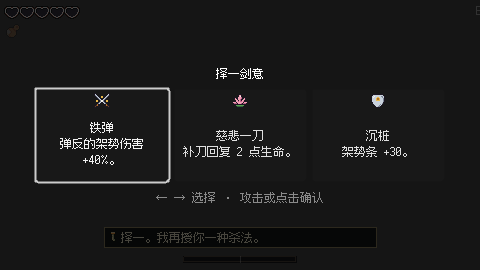
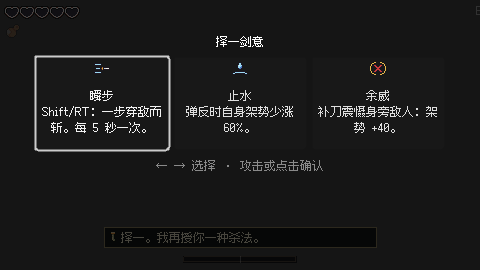
Two more upgrades: Dread (余威) and Still Water (止水)
Dread: a finisher adds 40 posture to every other enemy within 80 px (a full bar breaks it).
Still Water: your deflects cost you 60% less posture. Code-drawn icons, en/nl/zh_CN text,
numbers in run.tres, scenario upgrade_extras. The upgrade cards are centred above the
sword's text box; run_upgrade screens now show seed 175 (Flash Step, Still Water, Dread).

Claude-Session: https://claude.ai/code/session_01AfcAfqa33AD2jS3FNB8M79

diff --git a/game/scripts/scenarios/UpgradeExtrasScenario.cs b/game/scripts/scenarios/UpgradeExtrasScenario.cs
@@ -1,0 +1,77 @@
+using System.Linq;
+using Godot;
+using SwordInTheForest.Actors;
+using SwordInTheForest.Core;
+using SwordInTheForest.Run;
+
+namespace SwordInTheForest.Scenarios;
+
+/// <summary>
+/// 余威 Dread: a finisher shakes the posture of the other enemies near the player.
+/// 止水 Still Water: deflects cost the player less posture (the multiplier is applied).
+/// </summary>
+public partial class UpgradeExtrasScenario : Scenario
+{
+    private readonly BotControls _controls = new();
+    private RunScene _run = null!;
+    private Enemy _kneeler = null!;
+    private Enemy _other = null!;
+    private double _otherPosture0;
+    private int _stage;
+    private int _waitFrom;
+
+    protected override bool FailOnTimeout => true;
+
+    protected override void Step(int frame)
+    {
+        if (frame == 0)
+        {
+            // Bamboo room 2 has two bandits; no begging so the broken one kneels.
+            _run = new RunScene { Seed = 7, StartStep = 2, PlayMusic = false, ChangeScenes = false, Controls = _controls, Invulnerable = true, SurrenderOverride = 0f };
+            AddChild(_run);
+            return;
+        }
+        if (frame < 10) return;
+        var p = _run.Player;
+        switch (_stage)
+        {
+            case 0:
+                _run.Apply(Upgrade.StillWater);
+                Check(Mathf.IsEqualApprox(p.Mods.DeflectSelfPostureFactor, Tunables.Run.StillWaterFactor), "Still Water did not lower the deflect's posture cost");
+                _run.Apply(Upgrade.Dread);
+                Check(Mathf.IsEqualApprox(p.Mods.DreadPosture, Tunables.Run.DreadPosture), "Dread was not applied");
+                var alive = _run.Room!.Spawned.Where(e => IsInstanceValid(e) && !e.IsGone).ToList();
+                if (alive.Count < 2)
+                {
+                    Fail($"need two enemies, room has {alive.Count}");
+                    return;
+                }
+                _kneeler = alive[0];
+                _other = alive[1];
+                // Gather them by the player, break one, cut it down.
+                var toward = (p.GlobalPosition - _kneeler.GlobalPosition).Normalized();
+                p.GlobalPosition = _kneeler.GlobalPosition + toward * 14;
+                _other.GlobalPosition = _kneeler.GlobalPosition + toward.Orthogonal() * 24;
+                _kneeler.Shake(1000);
+                Check(_kneeler.IsKneeling, $"the shaken enemy is {_kneeler.Current}, not kneeling");
+                _otherPosture0 = _other.Posture.Value;
+                _controls.AimInput = -toward;
+                _controls.Press(PlayerAction.Attack, GameClock.Instance.NowMs);
+                _stage = 1;
+                _waitFrom = frame;
+                return;
+            case 1:
+                if (!_kneeler.IsGone)
+                {
+                    if (frame - _waitFrom > 60) Fail("the finisher did not land");
+                    return;
+                }
+                Check(p.DreadShaken == 1, $"Dread shook {p.DreadShaken} enemies, not 1");
+                Check(_other.IsKneeling || _other.Posture.Value >= _otherPosture0 + Tunables.Run.DreadPosture - 5,
+                    $"the other enemy's posture went {_otherPosture0:0} -> {_other.Posture.Value:0}");
+                GD.Print($"  frame {frame}: finisher shook the other bandit, posture {_otherPosture0:0} -> {_other.Posture.Value:0}");
+                Pass();
+                return;
+        }
+    }
+}

diff --git a/game/scripts/Actors/Player.cs b/game/scripts/Actors/Player.cs
@@ -408,17 +408,32 @@ public partial class Player : CharacterBody2D, IThreatTarget
             if (result == Enemy.HitResult.Ignored) continue;
             any = true;
             SparkFx.Hit(e.BodyGlobal);
-            if (result == Enemy.HitResult.Finisher)
-            {
-                Finishers++;
-                Heal(Mods.FinisherHeal);
-                FinisherLanded?.Invoke(this, e);
-            }
+            if (result == Enemy.HitResult.Finisher) LandFinisher(e);
         }
         if (!any) return;
         Clock.HitStop(Tunables.Feel.HitStopHitMs);
         ShakeCamera.Shake(Tunables.Feel.ShakeHit);
     }
+
+    /// <summary>A finisher landed on <paramref name="e"/>: heal (慈悲一刀) and shake the others (余威).</summary>
+    private void LandFinisher(Enemy e)
+    {
+        Finishers++;
+        Heal(Mods.FinisherHeal);
+        FinisherLanded?.Invoke(this, e);
+        if (Mods.DreadPosture <= 0) return;
+        var shaken = 0;
+        foreach (var other in Enemy.All(this))
+        {
+            if (other == e || other.BodyGlobal.DistanceTo(BodyGlobal) > Tunables.Run.DreadRadiusPx + Enemy.Radius) continue;
+            if (other.Shake(Mods.DreadPosture)) shaken++;
+        }
+        DreadShaken += shaken;
+        if (shaken > 0) SheetFx.Spawn("smoke_circular", 8, 30, GlobalPosition + new Vector2(0, -2), z: -1).Scale = new Vector2(2.2f, 2.2f);
+    }
+
+    /// <summary>Enemies shaken by 余威 so far (tests).</summary>
+    public int DreadShaken { get; private set; }
 
     private Vector2 UpdateFree(double now)
     {
@@ -587,9 +602,7 @@ public partial class Player : CharacterBody2D, IThreatTarget
             if (result == Enemy.HitResult.Finisher)
             {
                 finisher = true;
-                Finishers++;
-                Heal(Mods.FinisherHeal);
-                FinisherLanded?.Invoke(this, e);
+                LandFinisher(e);
             }
             SparkFx.Hit(origin + to * 0.7f);
         }
@@ -673,7 +686,7 @@ public partial class Player : CharacterBody2D, IThreatTarget
                 Clock.HitStop(feel.HitStopDeflectMs);
                 ShakeCamera.Shake(feel.ShakeDeflect);
                 _knockback = dir * feel.KnockbackDeflect * 0.35f;
-                if (AddPosture(data.PostureDamage * T.DeflectPostureFactor)) BreakPosture();
+                if (AddPosture(data.PostureDamage * T.DeflectPostureFactor * Mods.DeflectSelfPostureFactor)) BreakPosture();
                 break;
             case Outcome.Blocked:
                 Blocks++;

diff --git a/game/scripts/Ui/UpgradeScreen.cs b/game/scripts/Ui/UpgradeScreen.cs
@@ -16,6 +16,9 @@ public partial class UpgradeScreen : CanvasLayer
     private readonly List<Button> _buttons = new();
     private bool _done;
 
+    /// <summary>Height kept free at the bottom for the sword's lines (layout, not tuning).</summary>
+    private const float VoiceBoxClearancePx = 64;
+
     public UpgradeScreen(IReadOnlyList<Upgrade> choices) => _choices = choices;
     public UpgradeScreen() => _choices = Array.Empty<Upgrade>();
 
@@ -31,6 +34,8 @@ public partial class UpgradeScreen : CanvasLayer
         Upgrade.DeepGourd => "deep_gourd",
         Upgrade.IronDeflect => "iron_deflect",
         Upgrade.FlashStep => "flash_step",
+        Upgrade.Dread => "dread",
+        Upgrade.StillWater => "still_water",
         _ => "merciful_cut",
     };
 
@@ -46,7 +51,9 @@ public partial class UpgradeScreen : CanvasLayer
             .Replace("{damage}", r.KeenEdgeDamage.ToString())
             .Replace("{sips}", r.DeepGourdSips.ToString())
             .Replace("{seconds}", (r.FlashStepCooldownMs / 1000f).ToString("0.#", System.Globalization.CultureInfo.InvariantCulture))
-            .Replace("{flash_damage}", r.FlashStepDamage.ToString());
+            .Replace("{flash_damage}", r.FlashStepDamage.ToString())
+            .Replace("{dread}", Mathf.RoundToInt(r.DreadPosture).ToString())
+            .Replace("{calm}", Mathf.RoundToInt((1f - r.StillWaterFactor) * 100f).ToString());
     }
 
     public override void _Ready()
@@ -58,6 +65,8 @@ public partial class UpgradeScreen : CanvasLayer
         AddChild(dim);
         var center = new CenterContainer();
         center.SetAnchorsPreset(Control.LayoutPreset.FullRect);
+        // Centre in the space above the sword's text box, so tall cards never run into it.
+        center.OffsetBottom = -VoiceBoxClearancePx;
         AddChild(center);
         var stack = new VBoxContainer { Alignment = BoxContainer.AlignmentMode.Center };
         stack.AddThemeConstantOverride("separation", 8);

diff --git a/game/scripts/Ui/PixelIcons.cs b/game/scripts/Ui/PixelIcons.cs
@@ -155,6 +155,46 @@ public static class PixelIcons
             "................",
             "................",
         },
+        // 余威: a finishing cross-cut, its shock spreading out.
+        ["dread"] = new[]
+        {
+            "................",
+            "....yy....yy....",
+            "..yy........yy..",
+            ".y..kk....kk..y.",
+            ".y.krrk..krrk.y.",
+            "y...krrkkrrk...y",
+            "y....krrrrk....y",
+            "y.....krrk.....y",
+            "y....krrrrk....y",
+            "y...krrkkrrk...y",
+            ".y.krrk..krrk.y.",
+            ".y..kk....kk..y.",
+            "..yy........yy..",
+            "....yy....yy....",
+            "................",
+            "................",
+        },
+        // 止水: a drop falling into still water.
+        ["still_water"] = new[]
+        {
+            "................",
+            ".......kk.......",
+            "......kcck......",
+            "......kcck......",
+            ".....kcwcck.....",
+            ".....kcccBk.....",
+            ".....kccBBk.....",
+            "......kBBk......",
+            ".......kk.......",
+            "................",
+            "...kkkkkkkkkk...",
+            ".kkcccccccccckk.",
+            "kcckkkkkkkkkkcck",
+            ".kk..........kk.",
+            "................",
+            "................",
+        },
         // 米饭: a bowl of rice, blue-and-white porcelain.
         ["rice"] = new[]
         {

diff --git a/game/scripts/Tuning/RunTuning.cs b/game/scripts/Tuning/RunTuning.cs
@@ -62,6 +62,12 @@ public partial class RunTuning : Resource
     [Export(PropertyHint.Range, "0,100,1")] public int FlashStepPosture { get; set; }
     /// <summary>...and is ready again after this long.</summary>
     [Export(PropertyHint.Range, "500,20000,100")] public int FlashStepCooldownMs { get; set; }
+    /// <summary>余威: a finisher deals this much posture to every other enemy...</summary>
+    [Export(PropertyHint.Range, "0,100,1")] public float DreadPosture { get; set; }
+    /// <summary>...within this distance of you.</summary>
+    [Export(PropertyHint.Range, "0,240,1")] public float DreadRadiusPx { get; set; }
+    /// <summary>止水: your deflects cost you this fraction of the posture they used to.</summary>
+    [Export(PropertyHint.Range, "0,1,0.05")] public float StillWaterFactor { get; set; }
     /// <summary>Taking it again multiplies the cooldown by this.</summary>
     [Export(PropertyHint.Range, "0.1,1,0.05")] public float FlashStepRepeatCooldownFactor { get; set; }
 

diff --git a/game/scripts/Actors/Enemy.cs b/game/scripts/Actors/Enemy.cs
@@ -713,6 +713,19 @@ public abstract partial class Enemy : CharacterBody2D
     /// <summary>A finisher that does not kill (the boss's first): the subclass decides what follows.</summary>
     protected virtual void OnPhaseFinisher(Vector2 dir) { }
 
+    /// <summary>
+    /// 余威: a finisher nearby shakes it. Adds posture without a cut; a full bar breaks it as a
+    /// hit would (kneel or beg). Kneeling, begging, leaving and dead enemies are unmoved.
+    /// </summary>
+    public bool Shake(float posture)
+    {
+        if (posture <= 0 || Current is State.Dead or State.Leave or State.Kneel or State.Surrender) return false;
+        Flash(new Color(1f, 0.85f, 0.6f), Tunables.Feel.FlashMs);
+        SparkFx.Block(BodyGlobal);
+        if (Posture.Add(posture)) EnterKneel();
+        return true;
+    }
+
     /// <summary>Back on its feet at once (stagger state), with fresh posture.</summary>
     protected void Recover(float posture)
     {

diff --git a/game/scripts/Run/RunScene.cs b/game/scripts/Run/RunScene.cs
@@ -485,6 +485,8 @@ public partial class RunScene : Node2D
             case Upgrade.DeepGourd: m.SipsBonus += r.DeepGourdSips; break;
             case Upgrade.IronDeflect: m.DeflectFactor *= r.IronDeflectFactor; break;
             case Upgrade.MercifulCut: m.FinisherHeal += r.MercifulCutHeal; break;
+            case Upgrade.Dread: m.DreadPosture += r.DreadPosture; break;
+            case Upgrade.StillWater: m.DeflectSelfPostureFactor *= r.StillWaterFactor; break;
             case Upgrade.FlashStep:
                 if (m.FlashStep) m.FlashStepCooldownFactor *= r.FlashStepRepeatCooldownFactor;
                 m.FlashStep = true;

diff --git a/game/scripts/Actors/PlayerMods.cs b/game/scripts/Actors/PlayerMods.cs
@@ -15,4 +15,8 @@ public sealed class PlayerMods
     public bool FlashStep { get; set; }
     /// <summary>Multiplies its cooldown (each repeat take shortens it).</summary>
     public float FlashStepCooldownFactor { get; set; } = 1f;
+    /// <summary>余威: posture each finisher deals to the other enemies within reach.</summary>
+    public float DreadPosture { get; set; }
+    /// <summary>止水: multiplies the posture your own deflects cost you.</summary>
+    public float DeflectSelfPostureFactor { get; set; } = 1f;
 }

diff --git a/src/Combat/Run/Upgrade.cs b/src/Combat/Run/Upgrade.cs
@@ -12,5 +12,9 @@ namespace SwordInTheForest.Run
         MercifulCut,
         /// <summary>瞬步: a short dash-strike through enemies, on a cooldown.</summary>
         FlashStep,
+        /// <summary>余威: a finisher shakes the posture of every enemy near you.</summary>
+        Dread,
+        /// <summary>止水: your deflects fill less of your own posture.</summary>
+        StillWater,
     }
 }

diff --git a/CREDITS.md b/CREDITS.md
@@ -99,8 +99,9 @@ walls and tables and the boss bar are drawn in code (`game/scripts/Fx/`, `game/s
 `game/scripts/Ui/Hud.cs`).
 
 The 16×16 upgrade icons (Broad Stance's shield, Steady Breath's wind, Keen Edge's blade, Iron
-Deflect's crossed blades, Merciful Cut's lotus, Flash Step's darting blade, also its HUD
-cooldown icon) and the food drops (米饭 rice bowl, 酱牛肉 braised
+Deflect's crossed blades, Merciful Cut's lotus, Flash Step's darting blade (also its HUD
+cooldown icon), Dread's cross-cut and Still Water's drop)
+and the food drops (米饭 rice bowl, 酱牛肉 braised
 beef, 烧鸡 roast chicken leg, 12×12) are pixel maps drawn in code in the Ninja
 Adventure style, by Claude for this project (`game/scripts/Ui/PixelIcons.cs`, same licence as
 the code).
